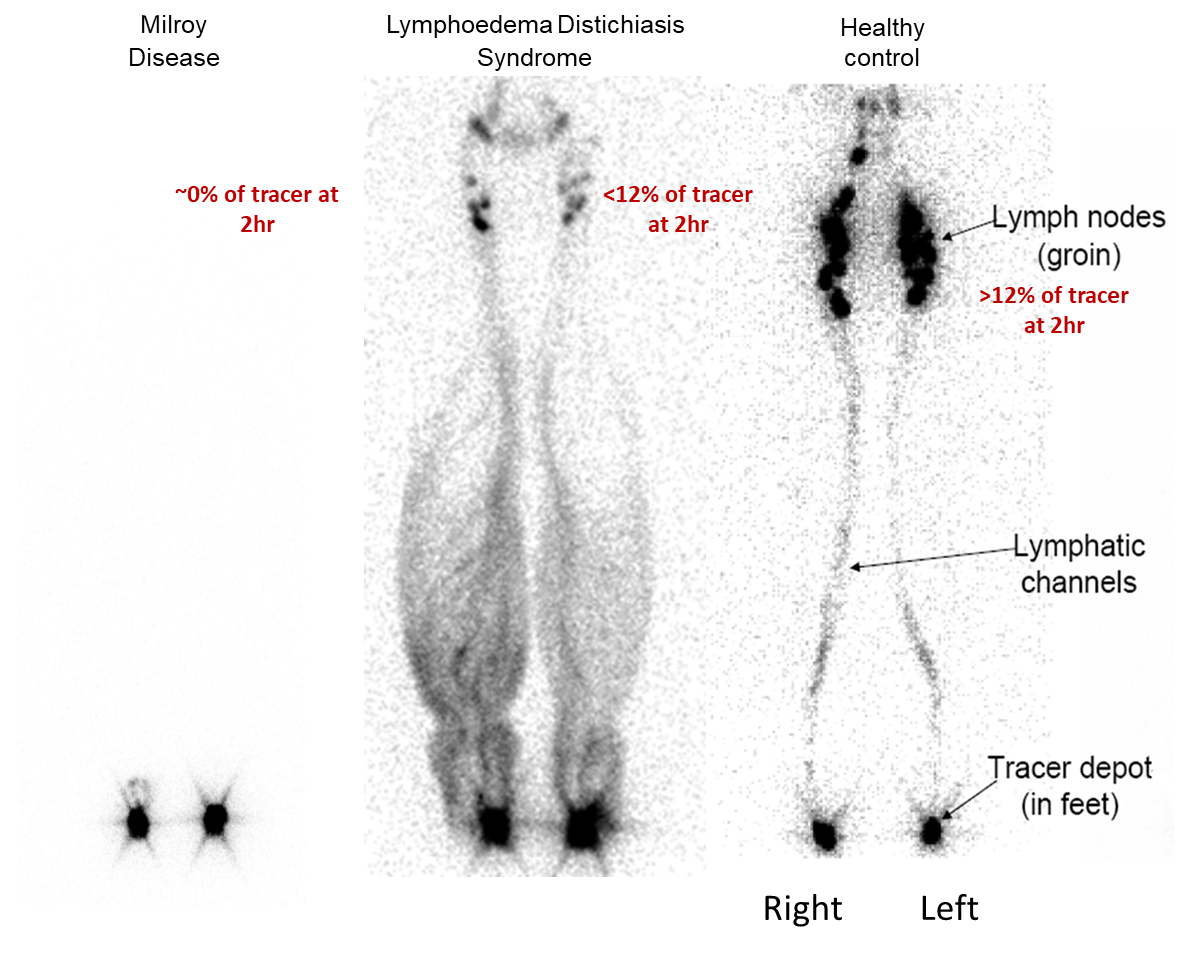
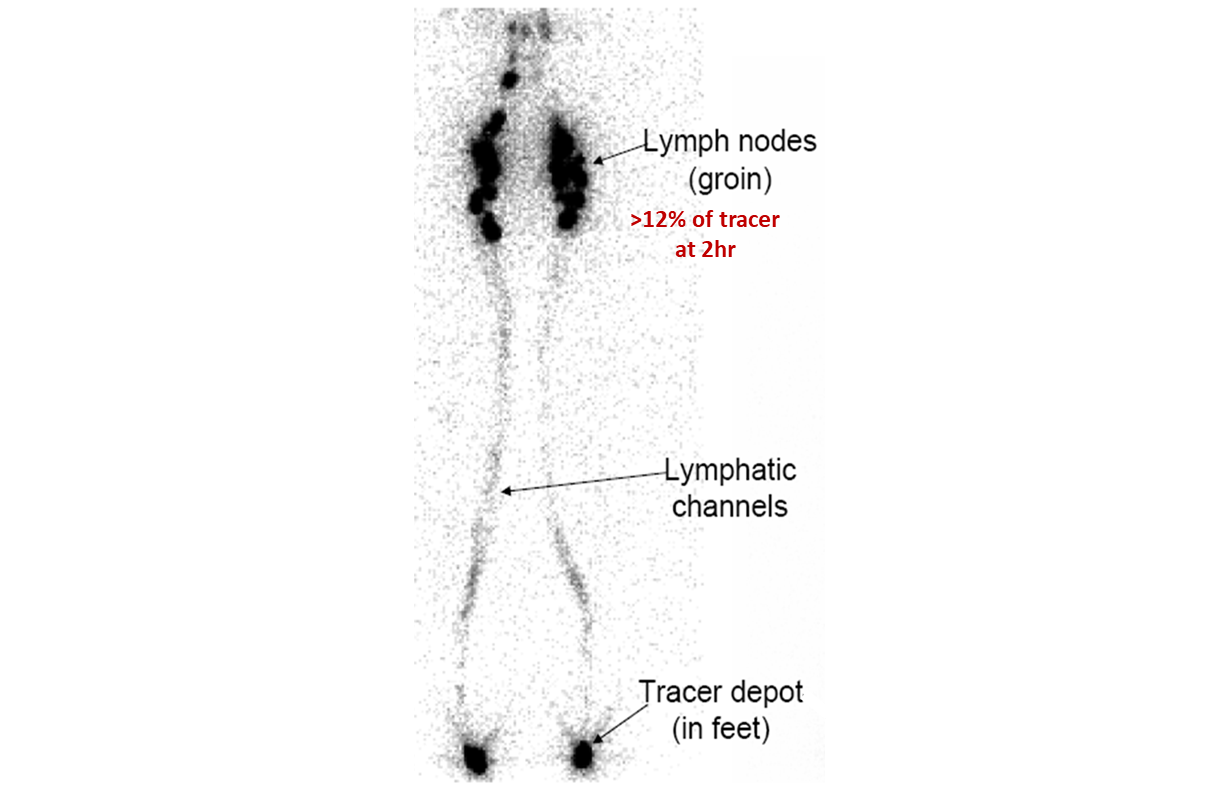
updated image

diff --git a/_projects/mristgeorges.md b/_projects/mristgeorges.md
@@ -10,7 +10,7 @@ related_publications: false
 
 <div class="row">
 	<div class="col-sm mt-3 mt-md-0">
-       {% include figure.liquid loading="eager" path="assets/img/meetups/lymphoscintigrams.jpg" title="Lymphoscintigrams" class="img-fluid rounded z-depth-1" %}
+       {% include figure.liquid loading="eager" path="assets/img/meetups/lymphoscintigrams.png" title="Lymphoscintigrams" class="img-fluid rounded z-depth-1" %}
    </div>
 </div>
 
